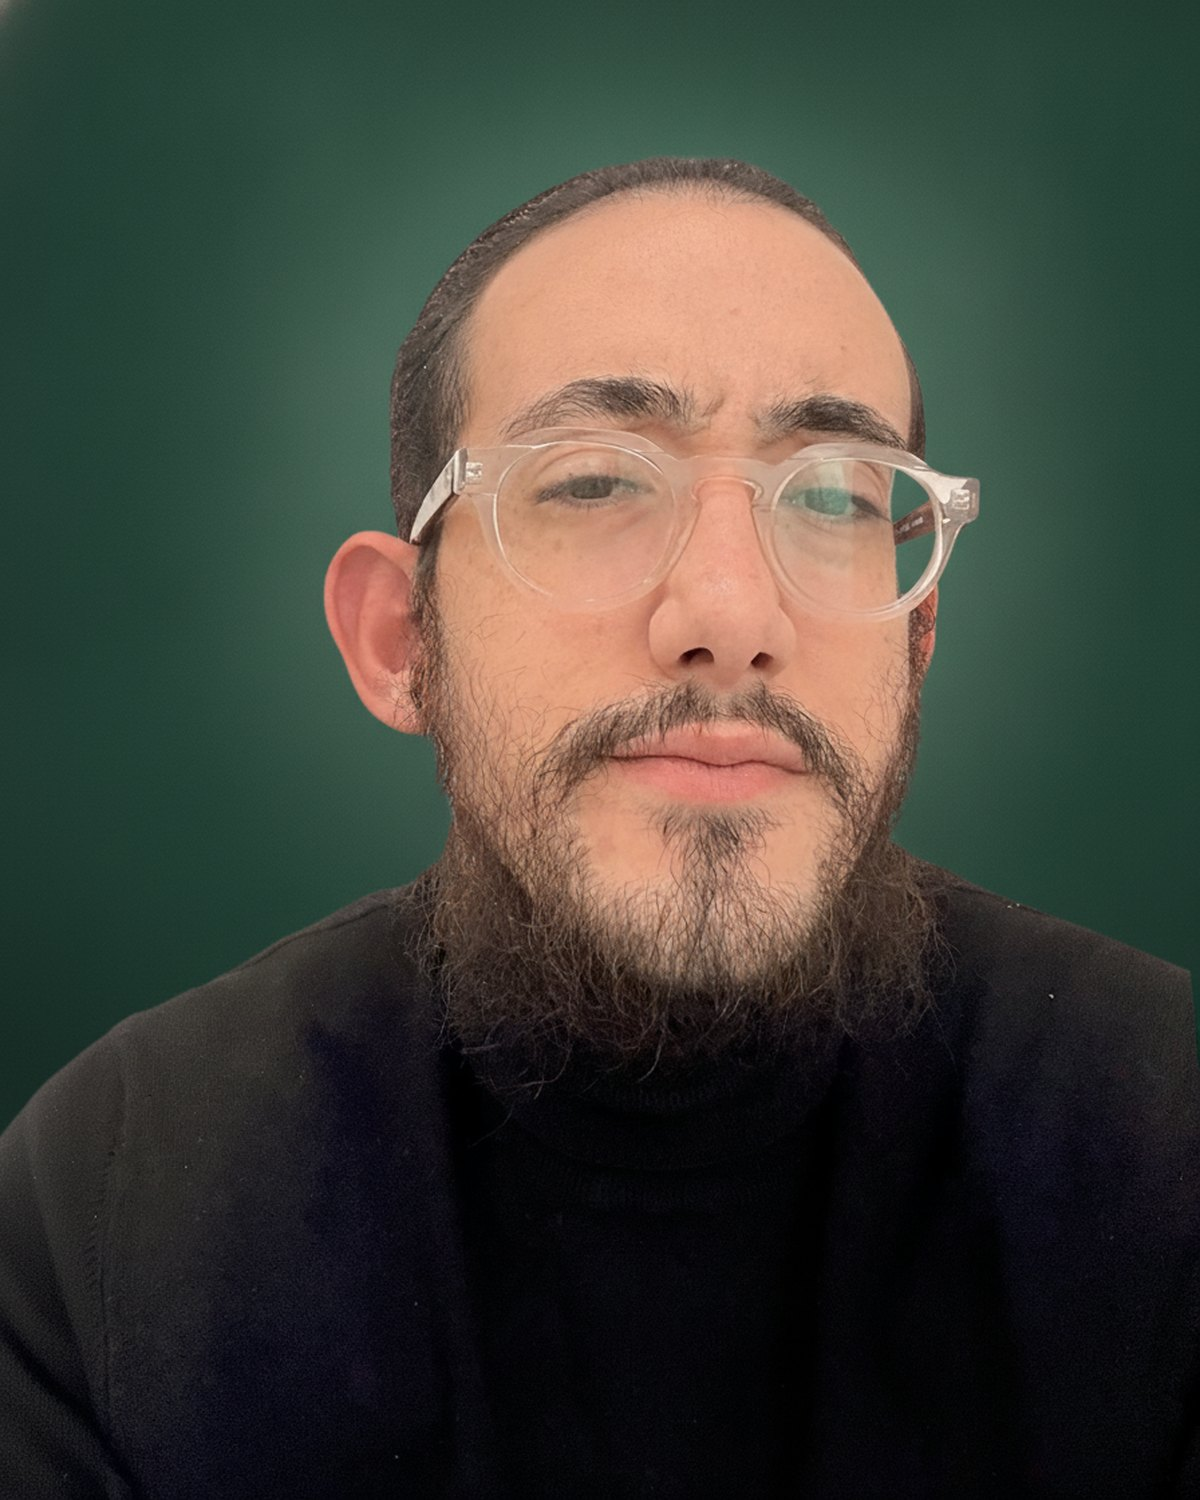
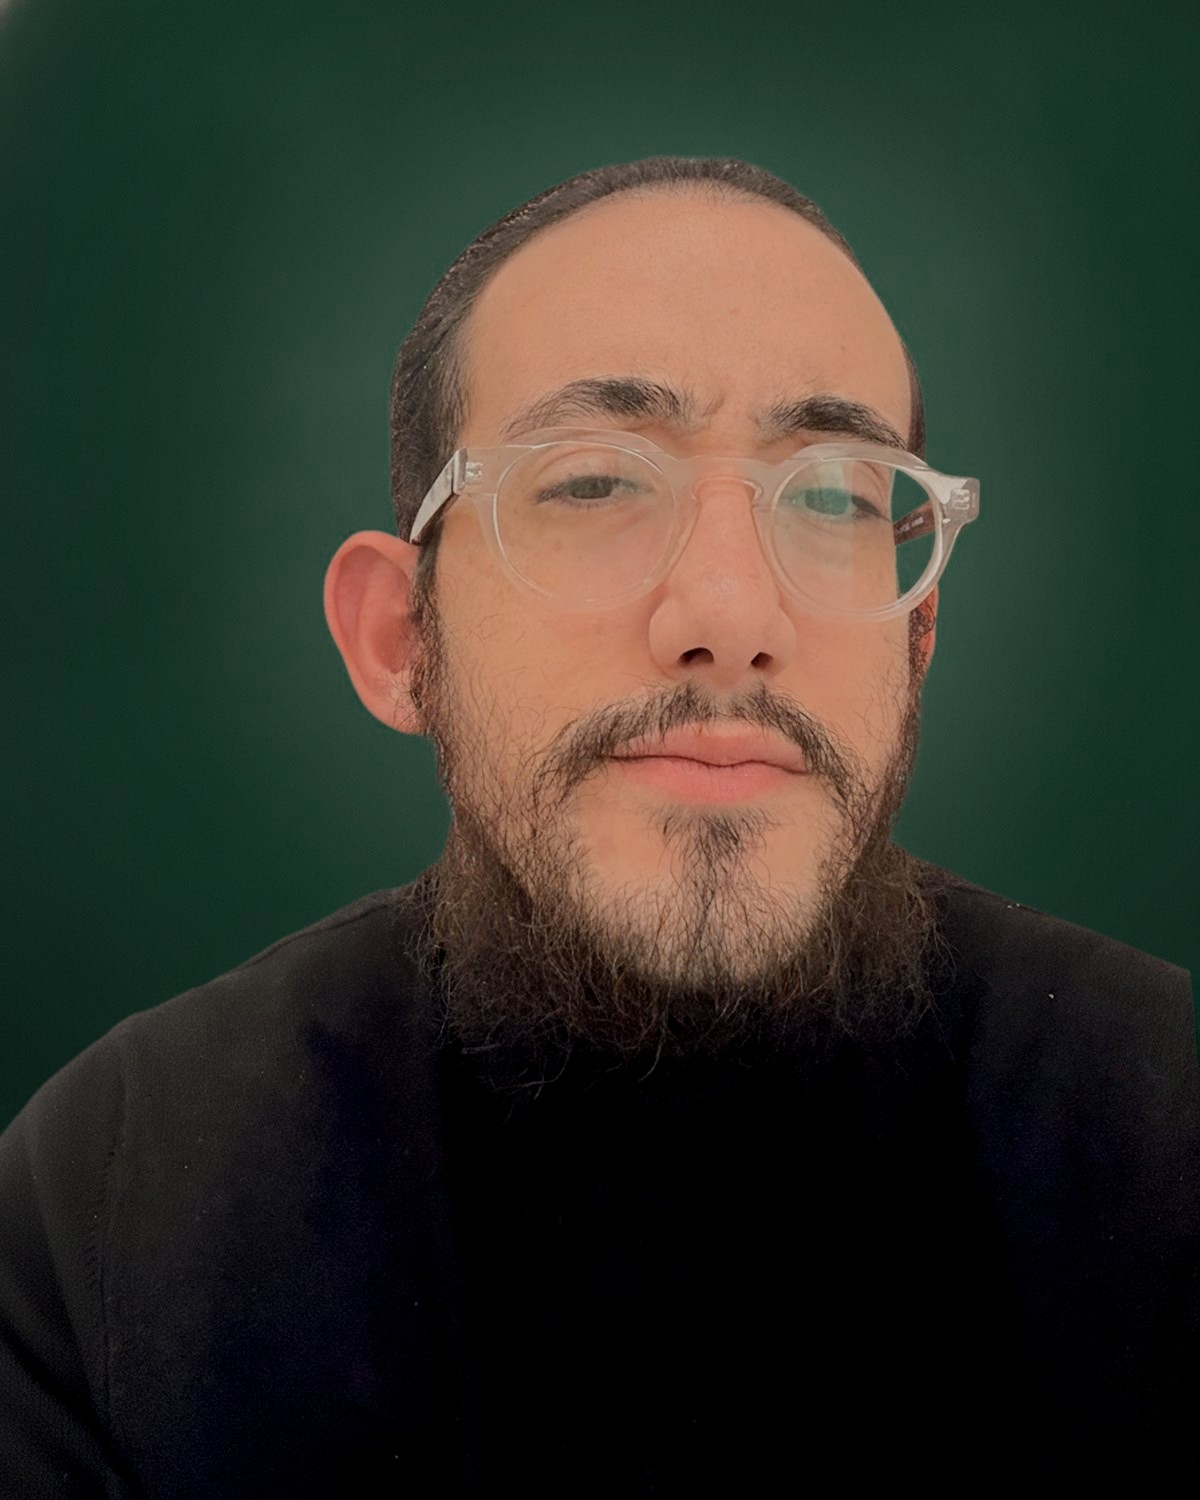
Portfolio v2 : portrait moins lumineux (hautes lumières et halo du fond baissés), picto de lieu aligné sur téléphone
Claude-Session: https://claude.ai/code/session_0151g8oPCeBhbPtGW93acV1Q

diff --git a/components/cv/CvPage.tsx b/components/cv/CvPage.tsx
@@ -135,8 +135,9 @@ export function CvPage({ locale }: { locale: CvLocale }) {
               <p style={{ fontSize: '0.93rem', color: C.texte, lineHeight: 1.55, marginTop: '0.6rem', maxWidth: '26rem' }}>
                 {identity.pitch}
               </p>
-              <p className="inline-flex items-center gap-1.5" style={{ fontSize: '0.82rem', fontWeight: 700, color: C.accent, marginTop: '0.75rem' }}>
-                <MapPin size={14} aria-hidden /> {identity.location} · {identity.availability}
+              <p className="flex flex-wrap items-center justify-center gap-x-1.5 lg:justify-start" style={{ fontSize: '0.82rem', fontWeight: 700, color: C.accent, marginTop: '0.75rem' }}>
+                <span className="inline-flex items-center gap-1.5"><MapPin size={14} aria-hidden /> {identity.location}</span>
+                <span>· {identity.availability}</span>
               </p>
             </div>
 
